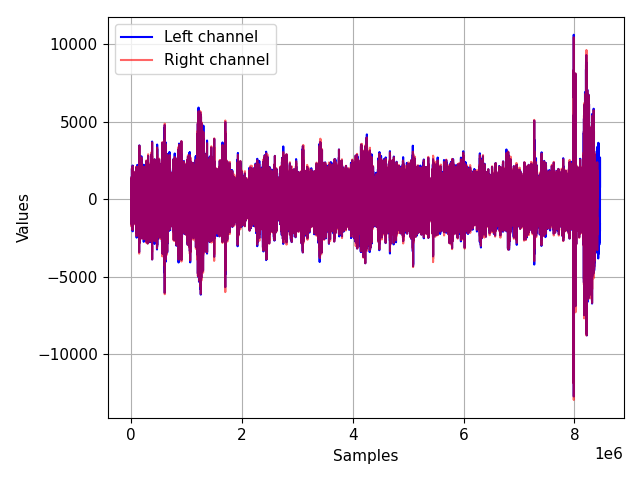
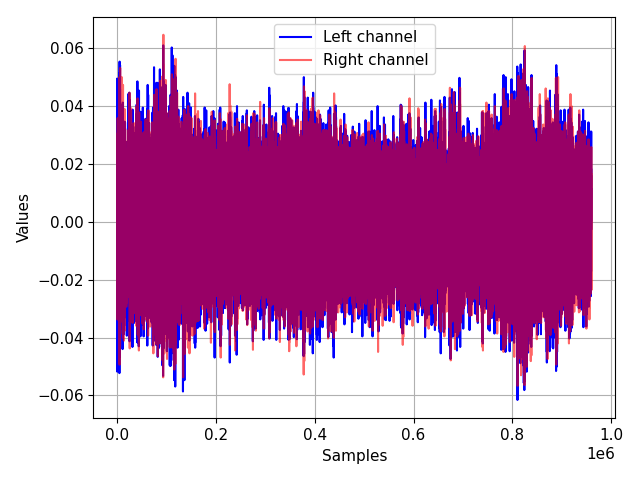
Multi Process recording script

diff --git a/1 - get_yolo_detections.py b/1 - get_yolo_detections.py
@@ -1,0 +1,91 @@
+import torch
+from os import listdir
+from os.path import isfile, join
+import os
+import pickle
+from tqdm.auto import tqdm
+import matplotlib.pyplot as plt
+
+
+def plot_audio(left_channel, right_channel):
+    plt.plot(left_channel, color='blue', label="Left channel")
+    plt.plot(right_channel, color='red', label="Right channel", alpha=0.6)
+    plt.xlabel("Samples")
+    plt.ylabel("Values")
+    plt.legend()
+    plt.grid(True)
+    plt.tight_layout()
+    plt.savefig("mygraph.png")
+
+
+def video_to_detections(_data, _model):
+    results = []
+    for frame in tqdm(_data):
+        result = model(frame)
+        results.append(result.pandas().xyxy[0])
+
+    return results
+
+
+def open_file(_file_path):
+    with open(_file_path, 'rb') as _handle:
+        return pickle.load(_handle)
+
+
+def find_common_divider(num, video_divider, sample_rate):
+    while True:
+        if num % video_divider == 0 and num % sample_rate == 0:
+            return num
+
+        num -= 1
+
+
+raw_data_path = os.path.join(os.getcwd(), 'raw data')
+list_of_raw_data_files = sorted([f for f in listdir(raw_data_path) if isfile(join(raw_data_path, f))])
+
+detection_path = os.path.join(os.getcwd(), 'detection data')
+model = torch.hub.load('ultralytics/yolov5', 'yolov5n', pretrained=True)
+
+for raw_data_file_name in list_of_raw_data_files:
+    data = open_file(os.path.join(raw_data_path, raw_data_file_name))
+    left_audio_data = data['left_audio_data']
+    right_audio_data = data['right_audio_data']
+
+    plot_audio(left_audio_data, right_audio_data)
+
+    left_camera_detections = video_to_detections(data['left_video_data'], model)
+    right_camera_detections = video_to_detections(data['right_video_data'], model)
+
+    sampling_factor = 1620
+    left_audio_data_factor = find_common_divider(len(left_audio_data), len(left_camera_detections), sampling_factor)
+    right_audio_data_factor = find_common_divider(len(right_audio_data), len(right_camera_detections), sampling_factor)
+
+    left_audio_data = left_audio_data[0:left_audio_data_factor]
+    right_audio_data = right_audio_data[0:right_audio_data_factor]
+
+    left_audio_data = left_audio_data.reshape(-1, sampling_factor)
+    right_audio_data = right_audio_data.reshape(-1, sampling_factor)
+
+    new_left_result = []
+    new_right_result = []
+    new_left_audio = []
+    new_right_audio = []
+
+    for left_result, right_result, left_audio, right_audio in zip(left_camera_detections, right_camera_detections,
+                                                                  left_audio_data, right_audio_data):
+        left_result = left_result.loc[left_result['name'] == 'person']
+        right_result = right_result.loc[right_result['name'] == 'person']
+        if len(left_result.index) > 0 and len(right_result.index) > 0:
+            new_left_result.append(left_result)
+            new_right_result.append(right_result)
+            new_left_audio.append(left_audio)
+            new_right_audio.append(right_audio)
+
+    to_save = {'left_audio_data': new_left_audio,
+               'right_audio_data': new_right_audio,
+               'left_video_data': new_left_result,
+               'right_video_data': new_right_result}
+
+    file_path = os.path.join(detection_path, 'Detections - ' + raw_data_file_name)
+    with open(file_path, 'wb') as handle:
+        pickle.dump(to_save, handle, protocol=pickle.HIGHEST_PROTOCOL)

diff --git a/3 - manipulate_sound.py b/3 - manipulate_sound.py
@@ -1,0 +1,97 @@
+import os
+import pickle
+from os import listdir
+from os.path import isfile, join
+import numpy as np
+import matplotlib.pyplot as plt
+import librosa
+import librosa.display as lib
+
+
+def plot_audio(channel):
+    plt.plot(channel, color='blue')
+    plt.xlabel("Samples")
+    plt.ylabel("Values")
+    plt.grid(True)
+    plt.tight_layout()
+    plt.show()
+
+
+def open_file(_file_path):
+    with open(_file_path, 'rb') as _handle:
+        return pickle.load(_handle)
+
+
+def normalize_around_mean(_data):
+    counter = 0
+    thresh_hold = 20
+    while _data.std() > (1 / thresh_hold) + 0.001:
+        _data = (_data / (_data.std() * thresh_hold)) + 0.5
+        _data = (_data / _data.mean()) - 0.5
+        counter += 1
+        print(f'{counter} - mean: {_data.mean():.3f}, std: {_data.std():.8f}')
+
+    clipped_data = np.zeros(_data.shape)
+    for i, cell in enumerate(_data):
+        clipped_cell = []
+        for entry in cell:
+            if entry > 1:
+                clipped_cell.append(1)
+            elif entry < 0:
+                clipped_cell.append(0)
+            else:
+                clipped_cell.append(entry)
+
+        clipped_data[i] = np.array(clipped_cell)
+
+    return clipped_data
+
+
+# def fft(_data):
+#     _complex = np.fft.fft(_data)
+#     _shape = (1, _complex.shape[0], _complex.shape[1])
+#
+#     _real = _complex.real.reshape(_shape)
+#     _imaginary = _complex.imag.reshape(_shape)
+#
+#     _complex = np.concatenate([_real, _imaginary], axis=0)
+#
+#     return _complex
+
+
+def fft(_data):
+    to_return = []
+    for cell in _data:
+        x = librosa.stft(cell.reshape(-1).astype(np.float64))
+        xdb = librosa.amplitude_to_db(abs(x))
+        to_return.append(xdb)
+    return np.array(to_return)
+
+
+def show_freq_domain(_data):
+    _data = _data.reshape(_data.shape[0], -1)
+    plt.figure(figsize=(10, 5))
+    lib.specshow(_data, sr=22050, x_axis='time', y_axis='hz')
+    plt.colorbar()
+    plt.show()
+
+
+data_directory = r'D:\pythonProject\Sound_locator\labeled data'
+list_of_files = [f for f in listdir(data_directory) if isfile(join(data_directory, f))]
+
+for file_name in list_of_files:
+    data = open_file(os.path.join(data_directory, file_name))
+
+    left_audio = np.array(data['left_audio_data'])
+    right_audio = np.array(data['right_audio_data'])
+
+    del data['left_audio_data'], data['right_audio_data']
+
+    left_audio_fft = fft(left_audio)
+    right_audio_fft = fft(right_audio)
+
+    left_audio = normalize_around_mean(left_audio)
+    right_audio = normalize_around_mean(right_audio)
+
+    print('a')
+
